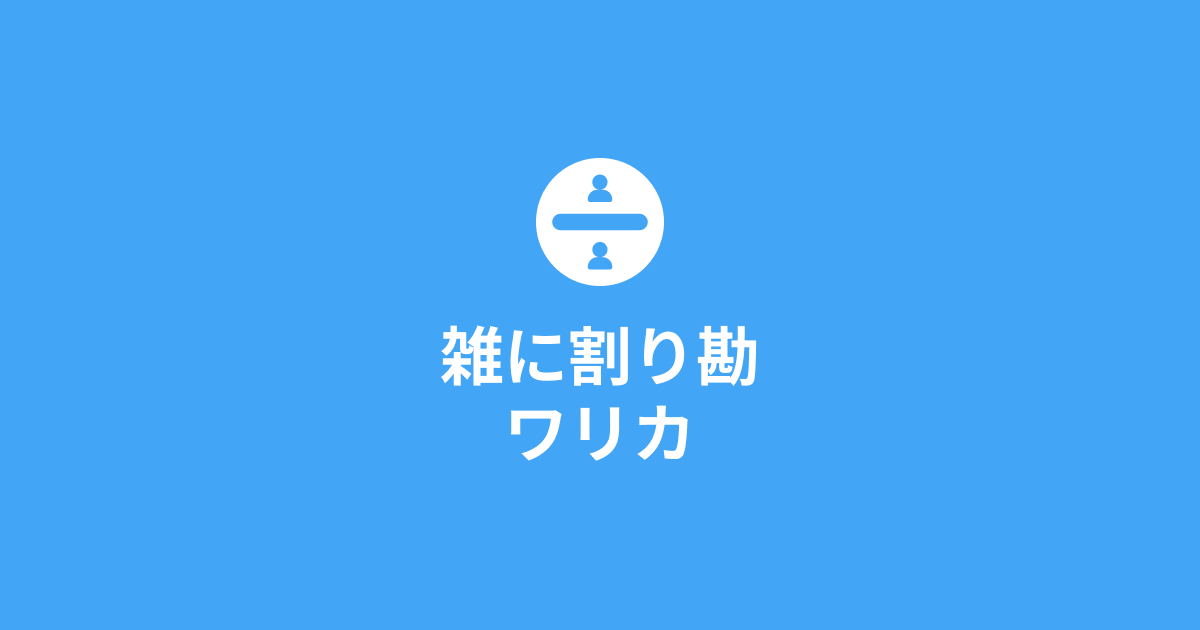
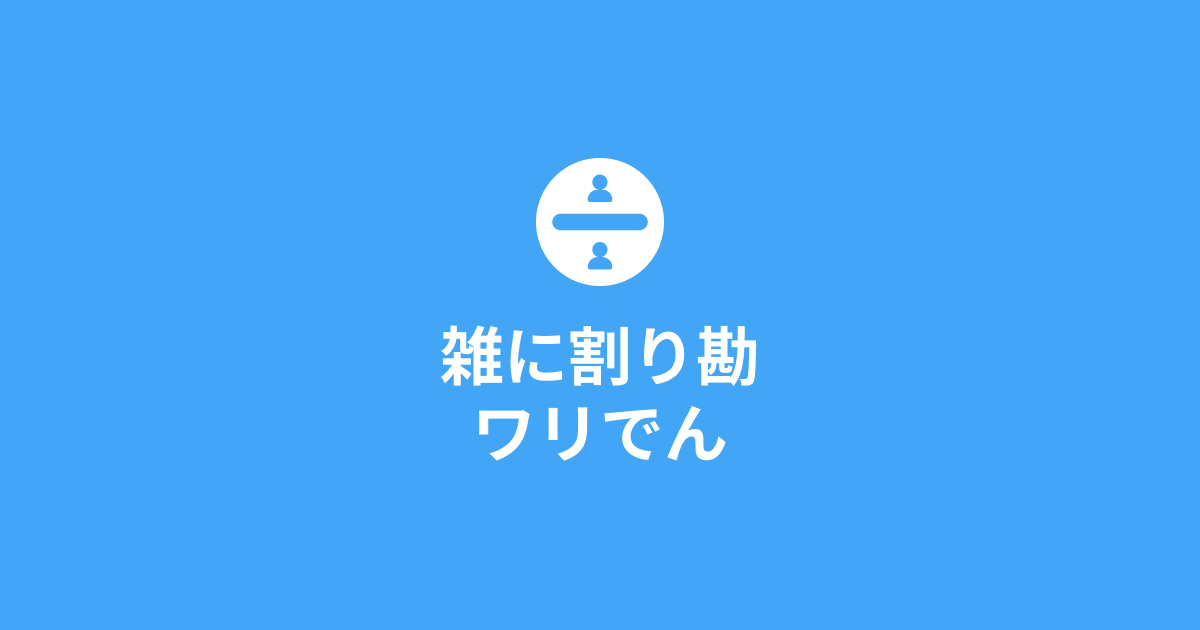
文言の変更

Changed region(s): [[0.4008, 0.6333, 0.6167, 0.7238]]

diff --git a/components/Calculator.tsx b/components/Calculator.tsx
@@ -17,7 +17,7 @@ export const Calculator = () => {
   const [optionBill, setOptionBill] = useState<number>(0);
   const [optionPayerNum, setOptionPayerNum] = useState<number>(0);
   const [payOptions, setPayOptions] = useState<PayOption[]>([]);
-  const [ceilUnit, setCeilUnit] = useState<number>(1);
+  const [ceilUnit, setCeilUnit] = useState<number>(100);
 
   const generalPayerNum = totalPayerNum - payOptions.reduce((totalPayerNum, option) => totalPayerNum + option.payerNum, 0)
   const generalBill = generalPayerNum === 0 ? 0 : Math.ceil((totalBill - payOptions.reduce((totalBill, option) => totalBill + option.bill * option.payerNum, 0)) / generalPayerNum / ceilUnit) * ceilUnit;
@@ -121,7 +121,7 @@ export const Calculator = () => {
                 </TableCell>
                 <TableCell sx={{width: 136, py: 1}} align="right">
                   <FormControl sx={{width: 110}}>
-                    <InputLabel id="ceil-unit-label">丸め単位</InputLabel>
+                    <InputLabel id="ceil-unit-label">端数切り</InputLabel>
                     <Select
                       labelId="ceil-unit-label"
                       id="ceil-unit"

diff --git a/pages/index.tsx b/pages/index.tsx
@@ -1,12 +1,13 @@
 import { AppBar, Box, Container, Toolbar, Typography } from "@mui/material"
 import { Calculator } from "../components/Calculator"
+import config from "../lib/config"
 
 const Home = () => (
   <>
     <AppBar position="static">
       <Toolbar>
         <Typography component="h1" fontWeight="bold">
-          割り勘電卓
+          {config.title}
         </Typography>
       </Toolbar>
     </AppBar>

diff --git a/lib/config.ts b/lib/config.ts
@@ -1,7 +1,7 @@
 const config = {
-  title: "WARIKA",
+  title: "ワリでん",
   titleSeperator: "｜",
-  subtitle: "雑に割り勘できるワリカ",
+  subtitle: "雑に割り勘できるワリでん",
   description:
     "複数の支払い金額を設定したり、端数を切り捨てて雑に割り勘しちゃおう",
   hostname: "warikan-dentaku.vercel.app",
